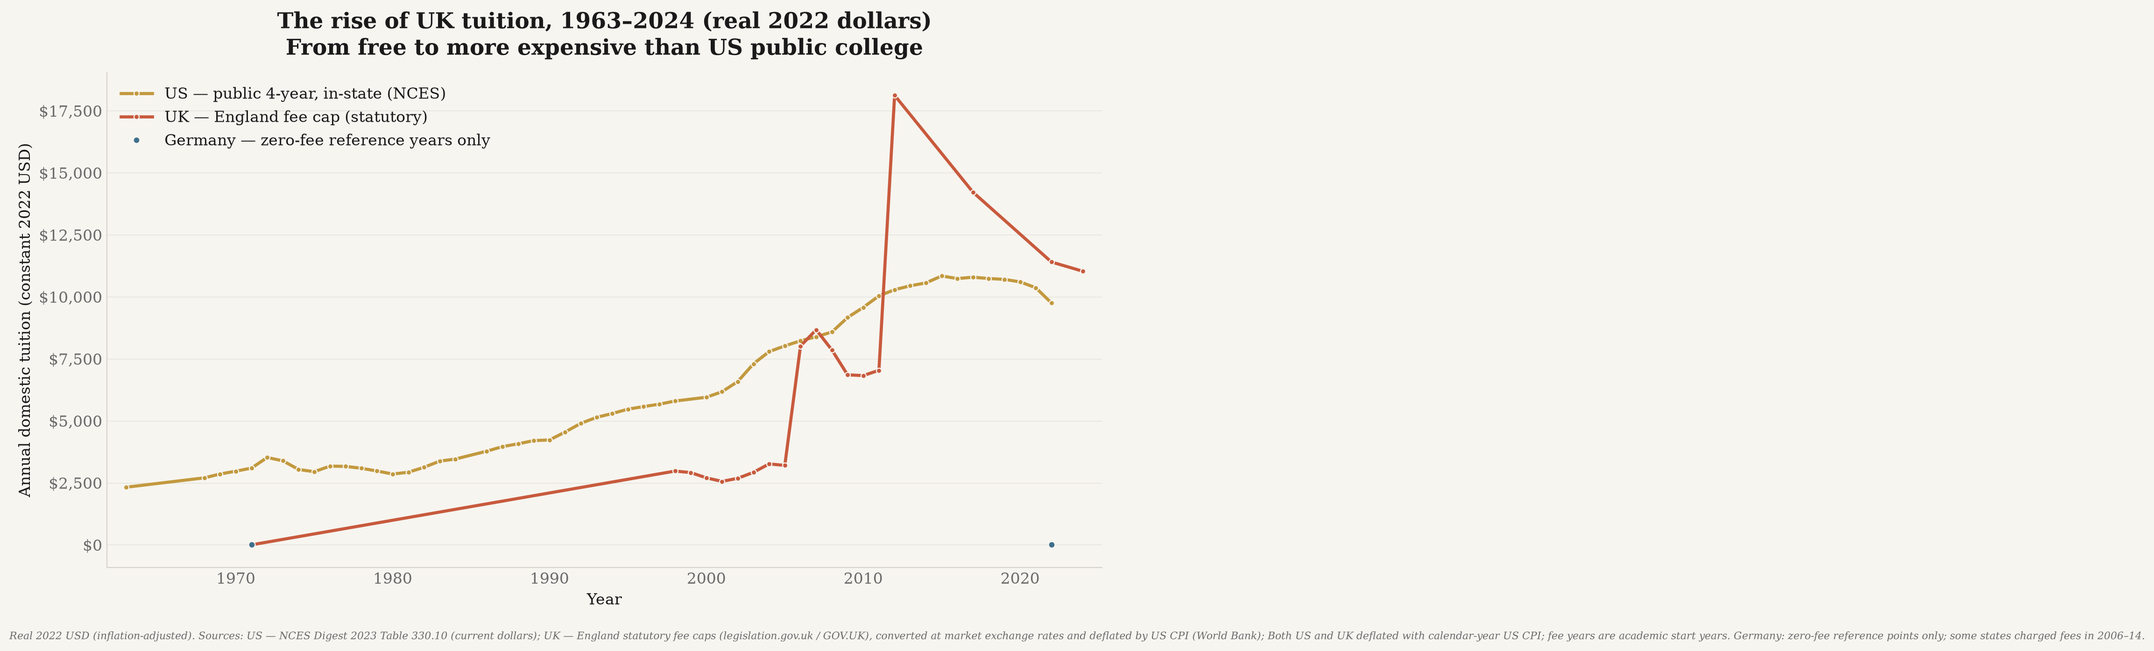
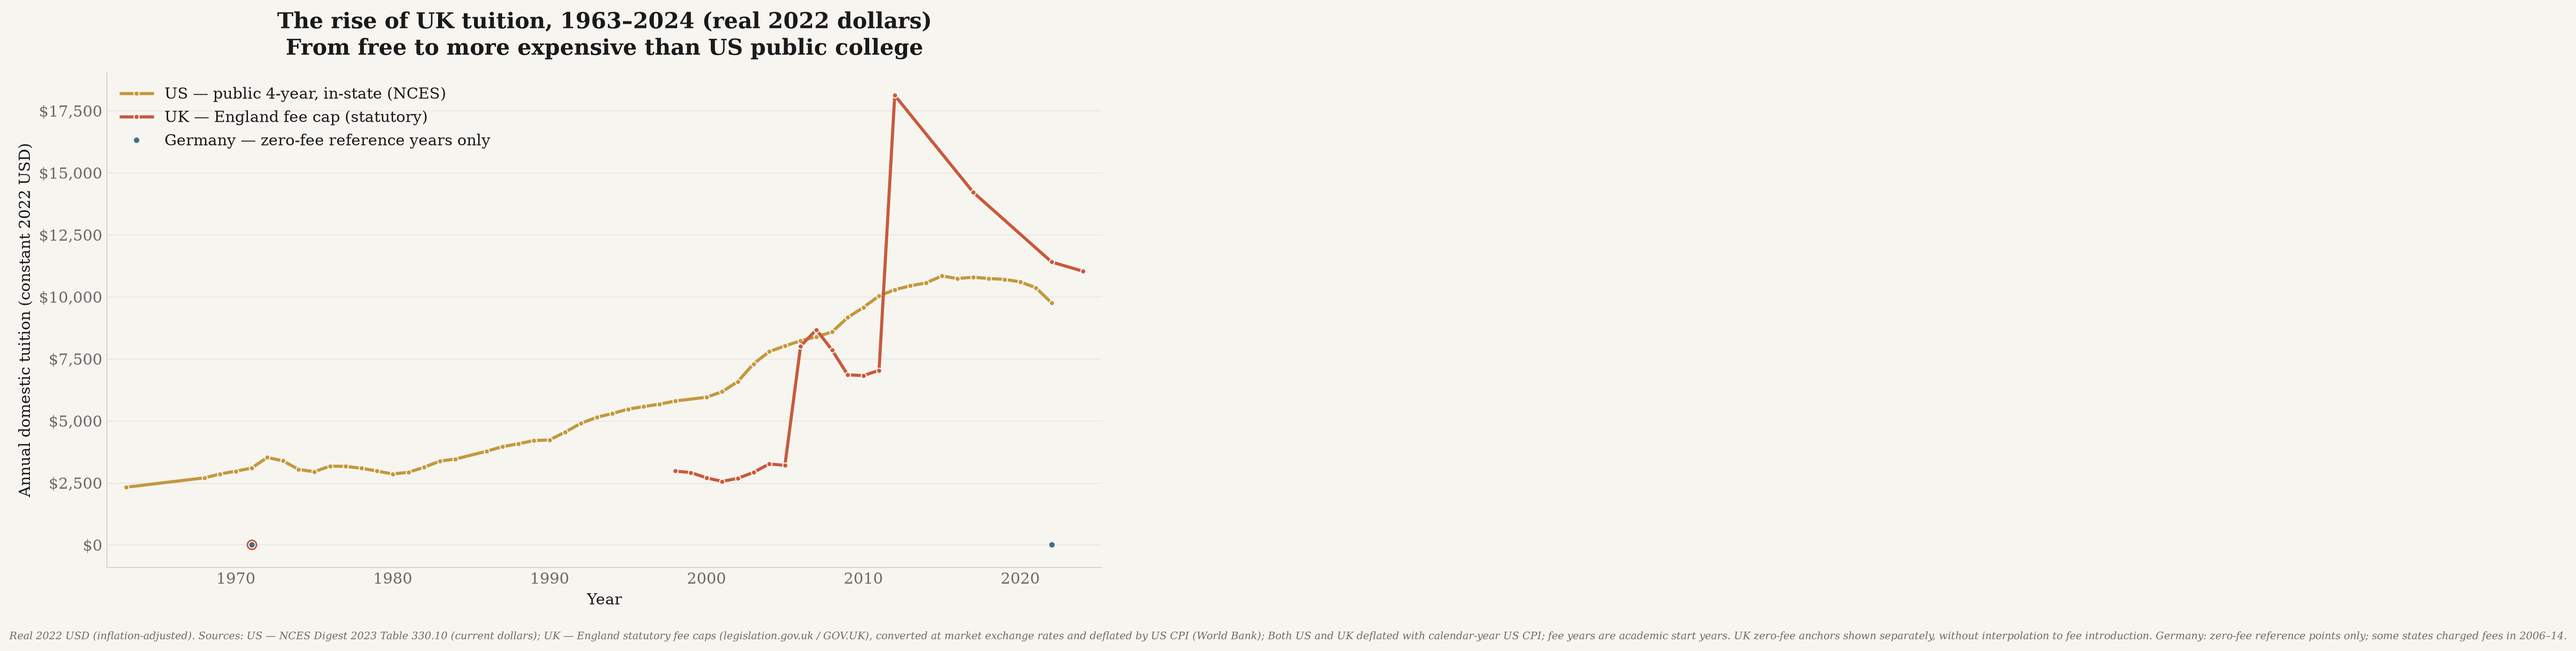
Separate zero-fee anchors and refresh complete-year sterling evidence

diff --git a/tuition/plot_history.py b/tuition/plot_history.py
@@ -28,6 +28,7 @@ SOURCE_NOTE = (
     "(current dollars); UK — England statutory fee caps (legislation.gov.uk / "
     "GOV.UK), converted at market exchange rates and deflated by US CPI (World Bank); "
     "Both US and UK deflated with calendar-year US CPI; fee years are academic start years. "
+    "UK zero-fee anchors shown separately, without interpolation to fee introduction. "
     "Germany: zero-fee reference points only; some states charged fees in 2006–14."
 )
 
@@ -55,7 +56,15 @@ def plot(out_path: str) -> None:
             continue
         xs = [y for y, _ in pts]
         ys = [v for _, v in pts]
-        if style == "points":
+        if region == config.UK:
+            ax.plot(xs, [v if v > 0 else float("nan") for v in ys],
+                    color=color, linewidth=2.4, marker="o", markersize=4,
+                    markeredgecolor=theme.BG, markeredgewidth=0.8, label=label)
+            zero_years = [y for y, v in pts if v == 0]
+            ax.plot(zero_years, [0] * len(zero_years), "o", color=color,
+                    markersize=7, markerfacecolor="none", markeredgecolor=color,
+                    markeredgewidth=1.2, zorder=3)
+        elif style == "points":
             ax.plot(xs, ys, "o", color=color, markersize=5,
                     markeredgecolor=theme.BG, markeredgewidth=0.8, label=label)
         elif style == "step":

diff --git a/tests/test_tuition.py b/tests/test_tuition.py
@@ -320,6 +320,31 @@ def test_history_preserves_free_uk_anchor_and_annual_upratings():
     assert values[2016] == 9000
 
 
+def test_history_plot_does_not_connect_free_uk_anchor_to_fee_introduction(tmp_path, monkeypatch):
+    import math
+    from tuition import plot_history
+
+    monkeypatch.setattr(plot_history, "load_history",
+                        lambda: {config.UK: [(1971, 0), (1998, 2973), (1999, 3000)]})
+    figures = []
+    close = plot_history.plt.close
+    monkeypatch.setattr(plot_history.plt, "close", figures.append)
+    out = tmp_path / "tuition_history.png"
+    plot_history.plot(str(out))
+    fig = figures[-1]
+    try:
+        fee_line, zero_anchors = fig.axes[0].lines
+        assert list(fee_line.get_xdata()) == [1971, 1998, 1999]
+        assert math.isnan(fee_line.get_ydata()[0])
+        assert list(fee_line.get_ydata()[1:]) == [2973, 3000]
+        assert list(zero_anchors.get_xdata()) == [1971]
+        assert list(zero_anchors.get_ydata()) == [0]
+        assert zero_anchors.get_linestyle() == "None"
+        assert out.stat().st_size > 0
+    finally:
+        close(fig)
+
+
 def test_nces_history_uses_same_calendar_cpi_basis(tmp_path, monkeypatch):
     csv = tmp_path / "nces.csv"
     csv.write_text(
